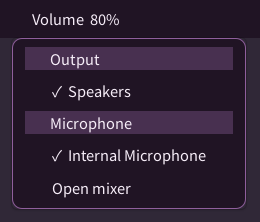
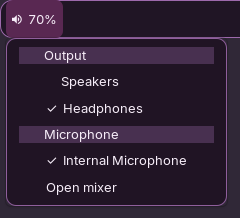
Keep wired speakers selectable and clear Waybar menu hover

diff --git a/tests/test_waybar_controls.py b/tests/test_waybar_controls.py
@@ -113,6 +113,21 @@ class TaskTests(unittest.TestCase):
 
 
 class AudioTests(unittest.TestCase):
+    def test_plugged_headphones_leave_laptop_speakers_selectable(self):
+        speaker, phones = "analog-output-speaker", "analog-output-headphones"
+        device = {"name": "analog", "description": "Laptop", "active_port": phones,
+                  "ports": [{"name": speaker, "description": "Speakers", "availability": "not available"},
+                            {"name": phones, "description": "Headphones", "availability": "available"},
+                            {"name": "hdmi-output-0", "description": "HDMI", "availability": "not available"}]}
+        for selected in (phones, speaker):
+            device["active_port"] = selected
+            routes = audio.routes("sink", [device], "analog")
+            self.assertEqual([r.port for r in routes], [speaker, phones])
+            self.assertEqual([r.port for r in routes if r.current], [selected])
+        device["ports"][0]["availability"] = "availability unknown"
+        device["ports"][1]["availability"] = "not available"
+        self.assertEqual([r.port for r in audio.routes("sink", [device], "analog")], [speaker])
+
     def test_hardware_ports_and_monitor_filter(self):
         device = {"name": "analog", "description": "Laptop", "active_port": "mic",
                   "ports": [{"name": "mic", "description": "Internal mic", "availability": "availability unknown"},

diff --git a/scripts/waybar_audio.py b/scripts/waybar_audio.py
@@ -31,10 +31,17 @@ def routes(kind, devices, default):
             continue
         description = device["description"].replace("\n", " ")
         ports = device.get("ports") or []
+        # ACP marks the built-in speakers unavailable when a wired jack is in
+        # use, even on codecs that can still switch the two outputs separately.
+        headphones_connected = kind == "sink" and any(
+            p["name"] == "analog-output-headphones" and p["availability"] == "available"
+            for p in ports
+        )
         if not ports:
             result.append(Route(kind, name, "", description, name == default))
         for port in ports:
-            if port["availability"] == "not available":
+            speaker_override = headphones_connected and port["name"] == "analog-output-speaker"
+            if port["availability"] == "not available" and not speaker_override:
                 continue
             label = port["description"].replace("\n", " ")
             if name.startswith("bluez_") and description != label:

diff --git a/README.md b/README.md
@@ -34,8 +34,9 @@ The notification center, power controls, and GTK menus share the Rofi palette.
 
 Right-click the volume indicator to open its GTK menu. Choose an output or
 microphone by name. The checkmarks reflect the audio server's current defaults
-and ports. A Bluetooth headset that needs call-quality playback to enable its
-microphone offers an explicit profile switch. Left-click opens the mixer,
+and ports. On the laptop, choose **Speakers** or **Headphones** with the wired
+headphones still plugged in. If a Bluetooth microphone requires call-quality
+playback, the menu asks before switching profiles. Left-click opens the mixer,
 scrolling adjusts volume, and the microphone mute key shows its resulting state.
 
 Right-click the task count beside the clock and choose **Add task…** or **Edit
